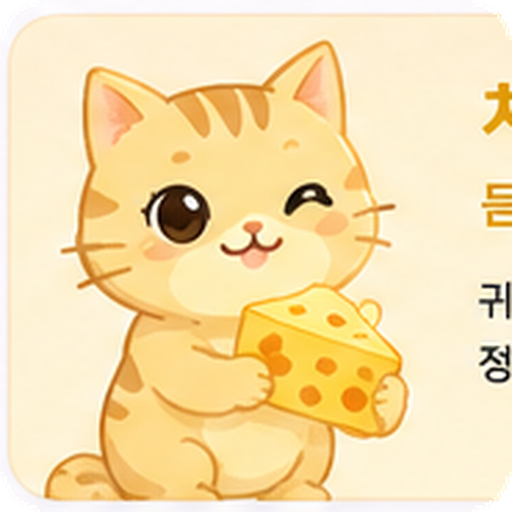
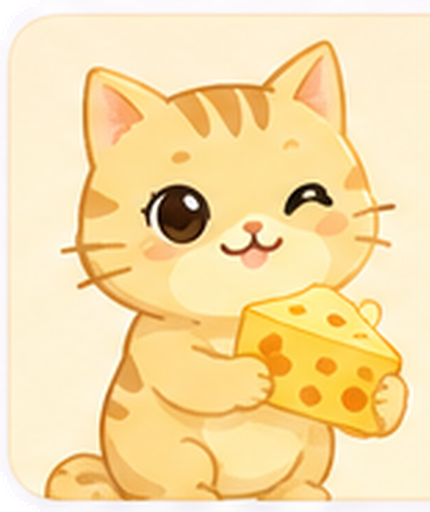
Add files via upload

diff --git a/style.css b/style.css
@@ -326,3 +326,12 @@ button:focus-visible,input:focus-visible{outline:3px solid rgba(126,87,194,.42);
 .word-list{gap:11px}.word-item{position:relative;display:grid;grid-template-columns:54px 1fr auto 22px;align-items:center;gap:11px;min-height:82px;padding:12px 13px;border:1px solid #ebe2f1;cursor:pointer;transition:.16s ease}.word-item:hover{transform:translateY(-2px);box-shadow:0 11px 24px rgba(83,57,108,.11)}.word-item::before{content:"";position:absolute;left:0;top:12px;bottom:12px;width:4px;border-radius:0 6px 6px 0;background:#9874b8}.word-item[data-type="verb"]::before{background:#efa65d}.word-item[data-type="adjective"]::before{background:#8d82ce}.word-icon{display:grid;place-items:center;width:50px;height:50px;border-radius:17px;background:#f6effc;font-size:28px}.word-copy{min-width:0}.word-copy b{display:block;color:#5f4775;font-size:17px}.word-copy strong{display:block;margin-top:2px;color:#44384b;font-size:14px}.word-copy small{display:block;margin-top:4px;color:#837688;font-size:10px}.word-item .badge{font-size:9px;white-space:nowrap}.word-item i{font-style:normal;color:#9276aa;font-weight:900}
 .progress-hero{display:grid;grid-template-columns:1fr 92px;align-items:center;gap:14px;margin-bottom:13px;padding:18px 20px;border-radius:26px;background:linear-gradient(135deg,#eee4fb,#fff0d9);border:1px solid #e3d5ee;box-shadow:0 10px 25px rgba(83,57,108,.08)}.progress-hero small{font-size:10px;letter-spacing:.14em;font-weight:900;color:#805e99}.progress-hero h2{margin:5px 0 5px;font-size:21px;color:#544060}.progress-hero p{margin:0;font-size:12px;line-height:1.45;color:#776b7d}.progress-hero-medal{display:grid;place-items:center;width:82px;height:82px;border-radius:26px;background:rgba(255,255,255,.78);font-size:43px;box-shadow:inset 0 0 0 1px rgba(255,255,255,.9),0 8px 20px rgba(83,57,108,.08)}.progress-main-card .progress>div{background:linear-gradient(90deg,#8a68aa,#e5a56a)}#progressScreen .stats-grid .stat{position:relative;overflow:hidden;padding:14px;background:linear-gradient(180deg,#fff,#faf6fd)}#progressScreen .stats-grid .stat::after{content:"";position:absolute;right:-17px;bottom:-22px;width:58px;height:58px;border-radius:50%;background:rgba(145,108,176,.08)}
 @media(max-width:520px){.study-guide-panel{grid-template-columns:68px 1fr;padding:9px 10px}.study-guide-panel img{width:64px;height:64px}.study-guide-panel b{font-size:14px}.study-guide-panel p{padding:8px 10px;font-size:12px}.word-item{grid-template-columns:48px 1fr auto;gap:9px}.word-item i{display:none}.word-icon{width:45px;height:45px;font-size:25px}.word-item .badge{align-self:start}.progress-hero{grid-template-columns:1fr 72px;padding:15px}.progress-hero h2{font-size:18px}.progress-hero-medal{width:66px;height:66px;border-radius:21px;font-size:36px}}
+
+
+/* V4.1.5 — clean character art and quiz image cleanup */
+.quiz-cat{object-fit:contain;object-position:left center;overflow:hidden}
+#quizEmoji{display:none!important}
+.study-guide-panel img,.quiz-guide-panel img{object-fit:contain;object-position:left center}
+
+/* V4.1.6 — remove quiz hint image completely */
+#quizEmoji,.quiz-card>.study-emoji{display:none!important;width:0!important;height:0!important;margin:0!important;padding:0!important;overflow:hidden!important}

diff --git a/app.js b/app.js
@@ -155,8 +155,6 @@ function makeQuestion(q,requestedSkill){
   return {skill,label:"문장의 뜻을 정확하게 고르세요",display:q.example,options:uniqueOptions(distractors,q.exampleKr),answer:q.exampleKr,difficulty:level};
 }
 
-const SKILL_ICONS={meaning:"📘",article:"🏷",form:"✏",listening:"🔊",example:"💬"};
-
 const CAT_GUIDES={
   meaning:{name:"쁘띠냥 · Petit",src:"./assets/characters/petit-approved.png",line:"단어의 뜻을 차근차근 찾아보자냥!",theme:"petit"},
   article:{name:"쁘띠냥 · Petit",src:"./assets/characters/petit-approved.png",line:"관사와 명사의 성을 함께 확인하자냥!",theme:"petit"},
@@ -305,7 +303,7 @@ function renderQuiz(){
   $("quizStars").textContent=progress.stars;$("quizFeedback").textContent="";$("quizFeedback").className="feedback";const reaction=$("quizReaction");if(reaction){reaction.className="quiz-reaction hidden";reaction.textContent="✨"}$("quizCat").classList.remove("react-correct","react-wrong");
   $("quizNext").classList.add("hidden");$("quizExample").classList.add("hidden");
   const guide=guideFor(question.skill);$("quizCat").src=guide.src;$("quizCatName").textContent=guide.name;$("quizGuideLine").textContent=guide.line;const guidePanel=document.querySelector(".quiz-guide-panel");if(guidePanel)guidePanel.dataset.guide=guide.theme||"petit";const quizScreen=$("quizScreen");if(quizScreen)quizScreen.dataset.skill=question.skill;
-  $("quizEmoji").textContent=SKILL_ICONS[question.skill]||"📘";$("quizEmoji").classList.remove("hidden");$("quizWord").textContent=question.display;$("quizLabel").textContent=`${question.label} · ${DIFFICULTY_LABELS[question.difficulty]}`;
+  $("quizWord").textContent=question.display;$("quizLabel").textContent=`${question.label} · ${DIFFICULTY_LABELS[question.difficulty]}`;
   const audio=$("quizAudio");audio.classList.toggle("hidden",question.skill!=="listening"&&question.skill!=="example");
   const box=$("quizOptions");box.innerHTML="";
   question.options.forEach((o,index)=>{const b=document.createElement("button");b.className="quiz-option";b.dataset.correct=String(o.ok);b.innerHTML=`<span class="option-letter">${String.fromCharCode(65+index)}</span><span class="option-text"></span>`;b.querySelector(".option-text").textContent=o.label;b.onclick=()=>answerQuiz(o.ok,b,q);box.appendChild(b)});
@@ -418,7 +416,7 @@ function renderAll(){if(!WORDS.length)return;renderHome();renderLessonTabs();ren
 loadProgress();loadData().catch(e=>{$("homeSpeech").innerHTML="데이터를 불러오지 못했어요.<br>GitHub Pages에서 다시 열어 주세요.";console.error(e)});
 if("serviceWorker" in navigator)window.addEventListener("load",async()=>{
   try{
-    const reg=await navigator.serviceWorker.register("./service-worker.js?v=4.1.4");
+    const reg=await navigator.serviceWorker.register("./service-worker.js?v=4.1.6");
     await reg.update();
   }catch(e){console.warn("서비스 워커 업데이트 실패",e)}
 });

diff --git a/index.html b/index.html
@@ -7,9 +7,9 @@
 <meta name="description" content="CE1~CE2 수준의 어린이 프랑스어 학습 앱">
 <link rel="manifest" href="./manifest.webmanifest">
 <title>Yeonjae French</title>
-<link rel="stylesheet" href="./style.css?v=4.0.2">
-<link rel="stylesheet" href="./assets/styles/design-system.css?v=4.0.2">
-<link rel="stylesheet" href="./assets/styles/components.css?v=4.0.2">
+<link rel="stylesheet" href="./style.css?v=4.1.6">
+<link rel="stylesheet" href="./assets/styles/design-system.css?v=4.1.6">
+<link rel="stylesheet" href="./assets/styles/components.css?v=4.1.6">
 </head>
 <body>
 <div id="offlineBanner" class="offline-banner hidden" role="status">📡 오프라인 모드 · 저장된 학습은 계속할 수 있어요.</div>
@@ -124,7 +124,6 @@
     <section class="card quiz-card">
       <div class="quiz-label" id="quizLabel"></div>
       <button class="quiz-audio hidden" id="quizAudio" onclick="playQuizAudio()" aria-label="문제 음성 듣기">🔊 다시 듣기</button>
-      <div class="study-emoji" id="quizEmoji"></div>
       <div class="study-word quiz-word" id="quizWord"></div>
       <div class="quiz-options" id="quizOptions"></div>
       <div class="feedback" id="quizFeedback" aria-live="polite"></div>
@@ -235,6 +234,6 @@
   <button aria-label="기록" onclick="showScreen('progressScreen',this)"><span>📈</span>기록</button>
 </nav>
 </div>
-<script type="module" src="./app.js?v=4.0.2"></script>
+<script type="module" src="./app.js?v=4.1.6"></script>
 </body>
 </html>

diff --git a/service-worker.js b/service-worker.js
@@ -1,11 +1,11 @@
-const CACHE="yeonjae-french-v4-1-4";
+const CACHE="yeonjae-french-v4-1-6";
 const CORE=[
   "./","./index.html",
-  "./style.css?v=4.1.4",
-  "./assets/styles/design-system.css?v=4.1.4",
-  "./assets/styles/components.css?v=4.1.4",
-  "./app.js?v=4.1.4","./audio.js","./review.js",
-  "./data/words.json?v=4.1.4","./data/lessons.json?v=4.1.4","./data/recipes.json?v=4.1.4",
+  "./style.css?v=4.1.6",
+  "./assets/styles/design-system.css?v=4.1.6",
+  "./assets/styles/components.css?v=4.1.6",
+  "./app.js?v=4.1.6","./audio.js","./review.js",
+  "./data/words.json?v=4.1.6","./data/lessons.json?v=4.1.6","./data/recipes.json?v=4.1.6",
   "./assets/characters/petit-approved.png","./assets/characters/fromage-approved.png","./assets/characters/lavande-approved.png","./assets/characters/trio-approved.png"
 ];
 self.addEventListener("install",event=>{self.skipWaiting();event.waitUntil(caches.open(CACHE).then(cache=>cache.addAll(CORE)))});
